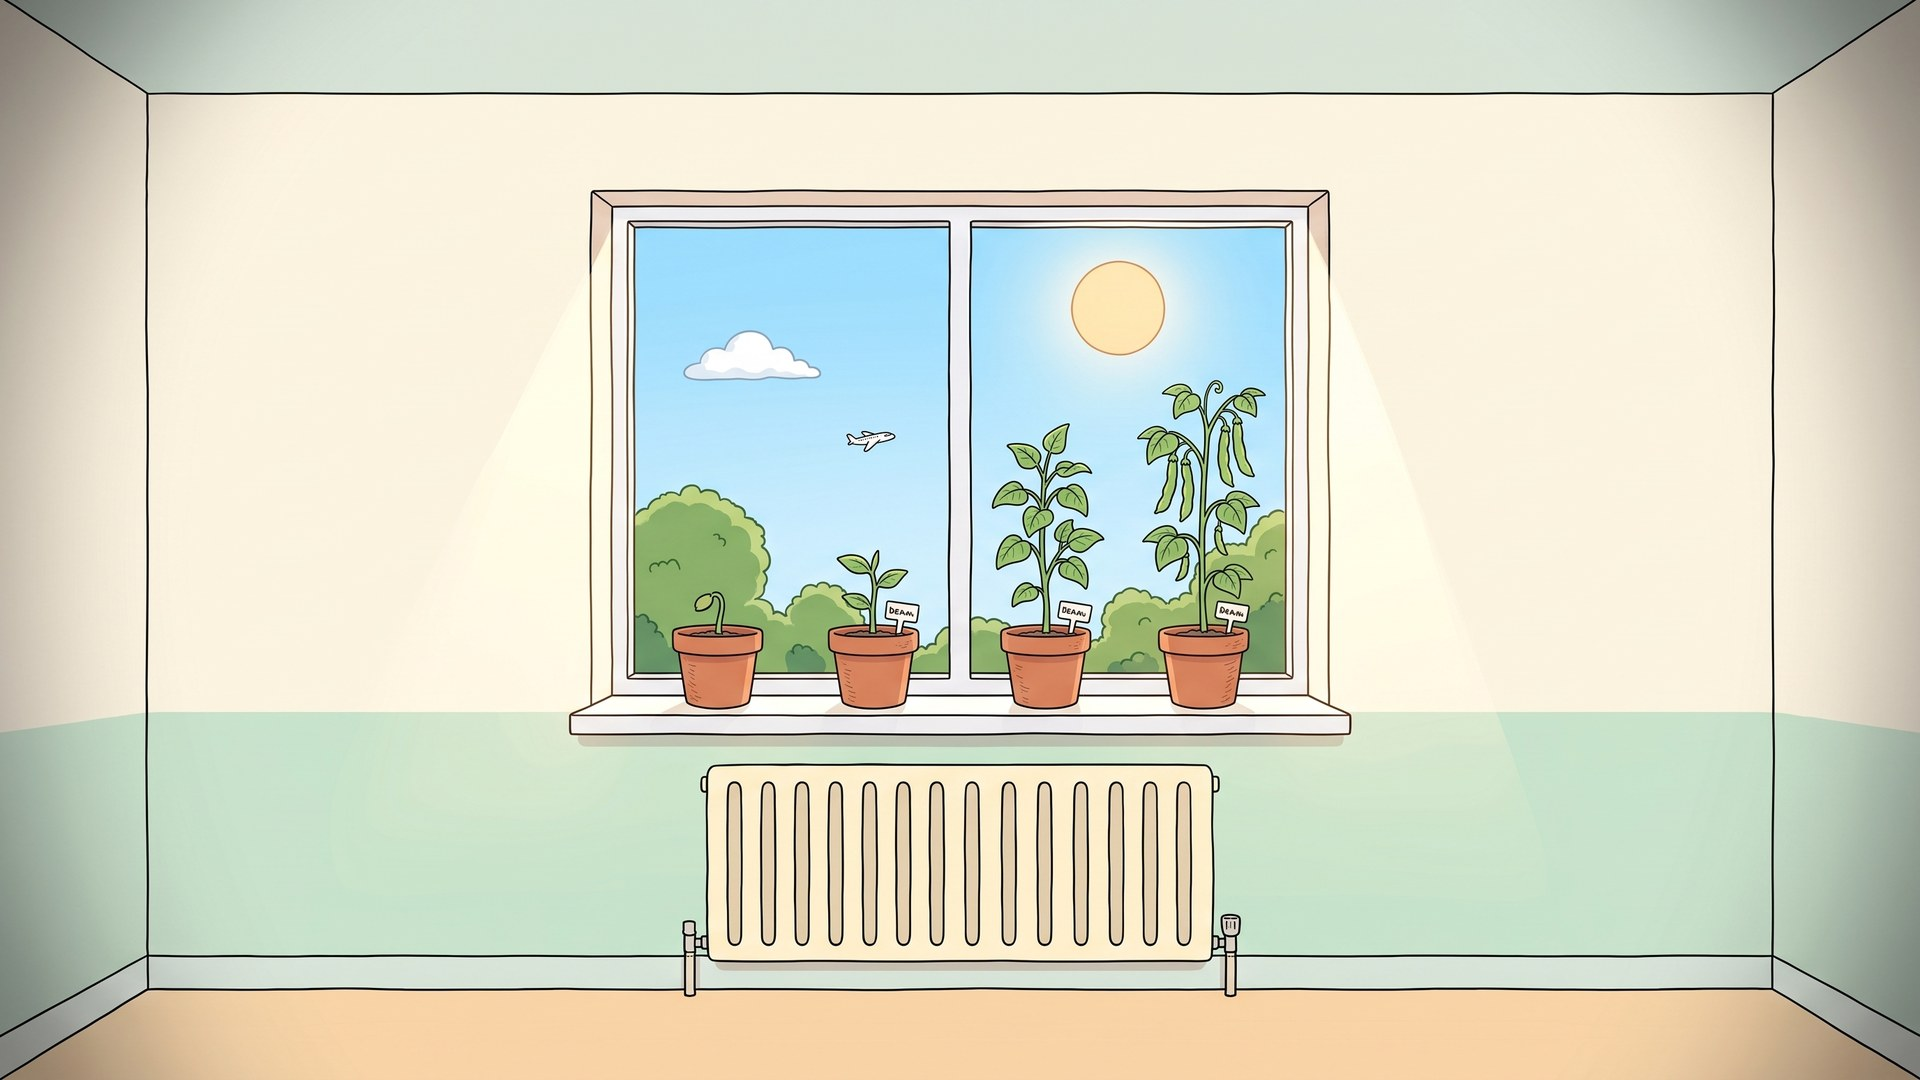
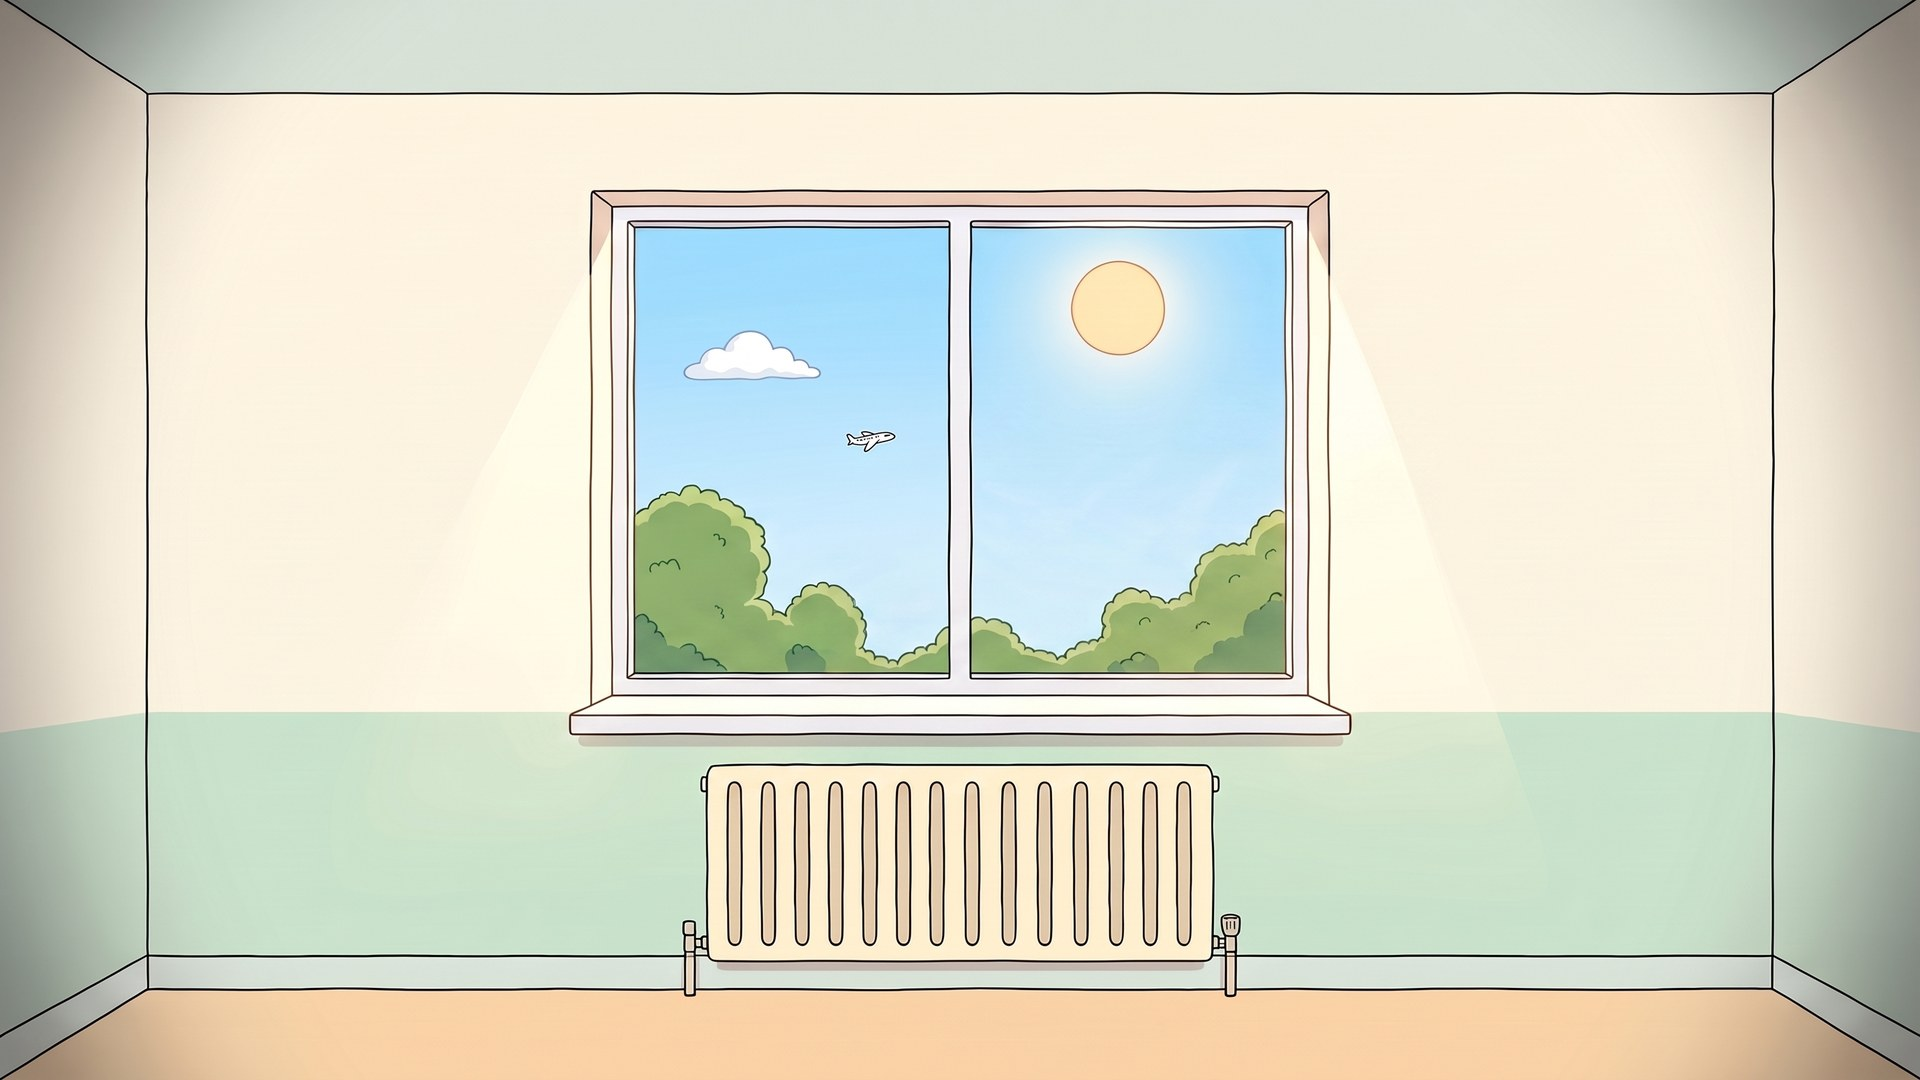
Classroom test: the bean plants are cut-out layers that sway cleanly
The window wall is regenerated with an empty sill and the four plants
are drawn separately on white, cut out and layered back on the sill, so
they move against the busy window without seams. The engine now has
LAYERS per view alongside the wall-patch animations.

Claude-Session: https://claude.ai/code/session_01EfdGHqbt9UMLzVmVXYp5s9

diff --git a/next/landscape/index.html b/next/landscape/index.html
@@ -87,8 +87,9 @@ button{font:inherit;color:inherit;cursor:pointer}
 
 /* micro-animations: a patch of the wall picture is lifted and moved for a moment */
 .sprite{position:absolute;pointer-events:none;background-repeat:no-repeat;will-change:transform}
+.layer{position:absolute;pointer-events:none;display:block;will-change:transform}
 @media (prefers-reduced-motion:no-preference){
-  .sprite.sway{transform-origin:50% 100%;animation:sway 1.8s ease-in-out}
+  .sprite.sway,.layer.sway{transform-origin:50% 100%;animation:sway 1.8s ease-in-out}
   .sprite.swing{transform-origin:50% 0%;animation:swing 2s ease-in-out}
   .sprite.lift{animation:lift .9s ease-out}
   .sprite.hop{animation:hop .8s ease-out}
@@ -197,7 +198,7 @@ const HOTS = {
     {id:'tdesk', l:71, t:62, w:24, h:27, label:"Mr Hollis's desk", anim:'jiggle', patch:[72,64.5,5,8], sound:'tap'}],
   c2:[
     {id:'window', l:30, t:17, w:40, h:31, label:'Classroom window', sound:'tap'},
-    {id:'beans', l:34, t:48, w:32, h:19, label:'Bean plants on the window sill', anim:'sway', patch:[[34.5,52,6,14.5],[42,45,7,21.5],[50.8,34,7.6,32.5],[59.5,32,7.5,34.5]], sound:'leaf'},
+    {id:'beans', l:33, t:30, w:35, h:37, label:'Bean plants on the window sill', anim:'sway', layer:'plant', sound:'leaf'},
     {id:'radiator', l:36, t:71, w:28, h:19, label:'Radiator', anim:'rattle', patch:[35.5,70.5,29,21], sound:'knock'}],
   c3:[
     {id:'bin', l:27, t:70, w:11, h:22, label:'Recycling bin', anim:'bob', patch:[27.5,69.5,10,8.5], sound:'knock'},
@@ -215,9 +216,26 @@ const HOTS = {
     {id:'hamster', l:66.5, t:52, w:11.5, h:11.5, label:'Nutmeg the hamster', anim:'hop', patch:[66.5,52,11.5,11.5], sound:'squeak'},
     {id:'cabinet', l:66, t:64, w:12.5, h:25, label:'Filing cabinet', anim:'rattle', patch:[65.5,63.5,13,26], sound:'knock'}]
 };
+/* Cut-out layers drawn over a wall: things that must move against a busy background (the plants against the window). */
+const LAYERS = {
+  c2:[
+    {src:'../art/classroom/layer-plant1.png', group:'plant', l:34.4, t:54.0, w:5.6, h:12.5},
+    {src:'../art/classroom/layer-plant2.png', group:'plant', l:42.4, t:49.5, w:5.5, h:17.0},
+    {src:'../art/classroom/layer-plant3.png', group:'plant', l:51.0, t:36.1, w:6.8, h:30.4},
+    {src:'../art/classroom/layer-plant4.png', group:'plant', l:59.3, t:31.5, w:7.7, h:35.0}]
+};
 /* Lift a patch of the current wall and play it: the same picture, cropped and moved, so the room never changes underneath. */
 function animate(h){
-  if (!h.anim || !h.patch || matchMedia('(prefers-reduced-motion:reduce)').matches) return;
+  if (!h.anim || matchMedia('(prefers-reduced-motion:reduce)').matches) return;
+  if (h.layer){
+    document.querySelectorAll(`.layer[data-group="${h.layer}"]`).forEach((el, i) => {
+      el.classList.remove(h.anim); void el.offsetWidth;
+      el.style.animationDelay = (i * 110) + 'ms'; el.classList.add(h.anim);
+      el.addEventListener('animationend', () => el.classList.remove(h.anim), {once:true});
+    });
+    return;
+  }
+  if (!h.patch) return;
   const v = VIEWS[S.view], patches = Array.isArray(h.patch[0]) ? h.patch : [h.patch];
   patches.forEach(([l,t,w,ht], i) => {
     const el = document.createElement('div'); el.className = 'sprite ' + h.anim;
@@ -262,6 +280,11 @@ function render(){
   const v = VIEWS[S.view];
   VIEWS.forEach(k => $('w-'+k).classList.toggle('on', k === v));
   const hots = $('hots'); hots.innerHTML = '';
+  (LAYERS[v] || []).forEach(L => {
+    const im = document.createElement('img'); im.className = 'layer'; im.src = L.src; im.alt = ''; im.dataset.group = L.group;
+    im.style.cssText = `left:${L.l}%;top:${L.t}%;width:${L.w}%;height:${L.h}%`;
+    hots.appendChild(im);
+  });
   HOTS[v].forEach(h => {
     if (h.id === 'envelope' && S.got.includes('envelope')) return;
     const b = document.createElement('button');
